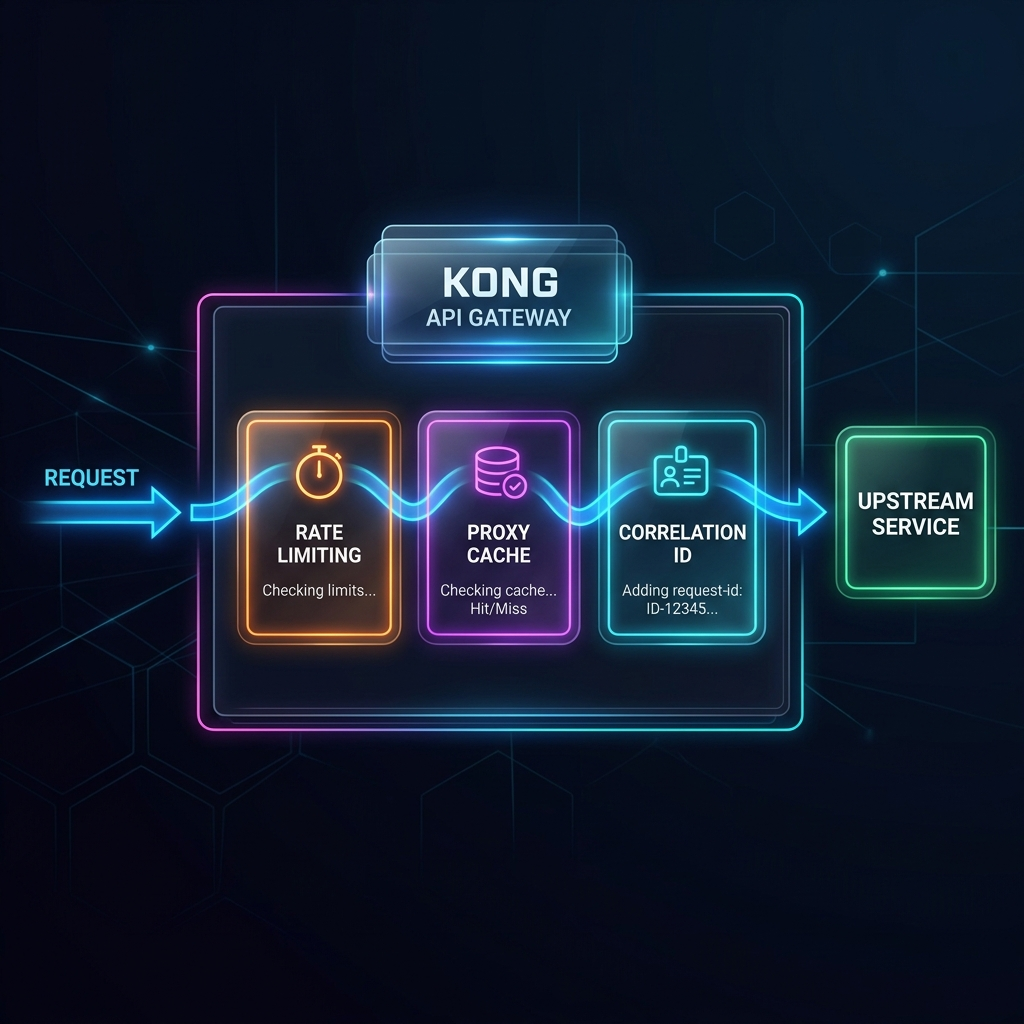
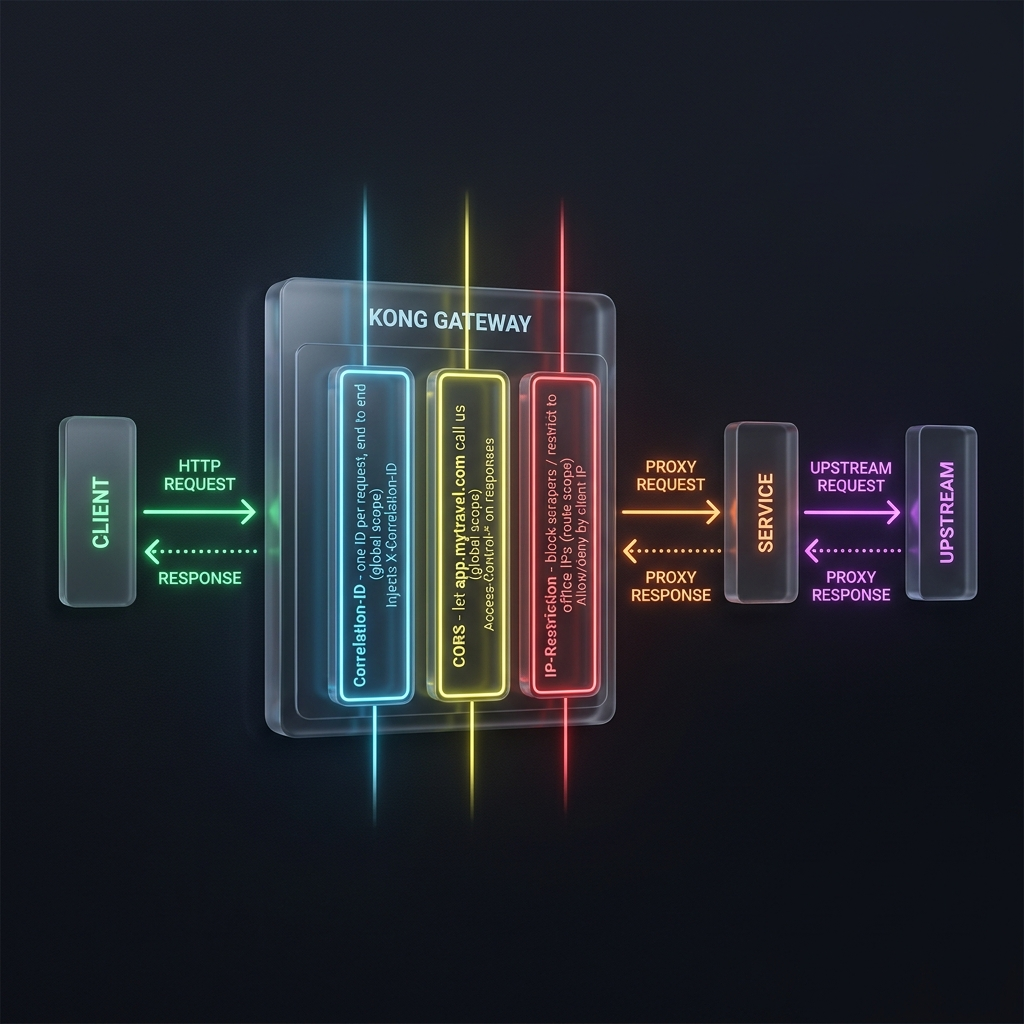
update

diff --git a/module-03-authentication/labs/03-easy-wins.md b/module-03-authentication/labs/03-easy-wins.md
@@ -304,17 +304,7 @@ Three real uses *today*:
 
 You added three more plugins, each solving a real, immediate problem:
 
-```
-                     CORS - let app.mytravel.com call us
-                     IP-Restriction - block scrapers / restrict to office IPs
-                     Correlation-ID - one ID per request, end to end
-
-Client ─▶ Kong Gateway ─▶ Service ─▶ Upstream
-              │
-              ├─ correlation-id (global)  ← injects X-Correlation-ID
-              ├─ cors (global)            ← sets Access-Control-* on responses
-              └─ ip-restriction (route)   ← allow/deny by client IP
-```
+![Kong Standard Plugins Architecture](../../public/easy_wins_architecture_1.png)
 
 **Plugin scope reminder:**
 - `cors` and `correlation-id` are **global** - apply to every request through the gateway.